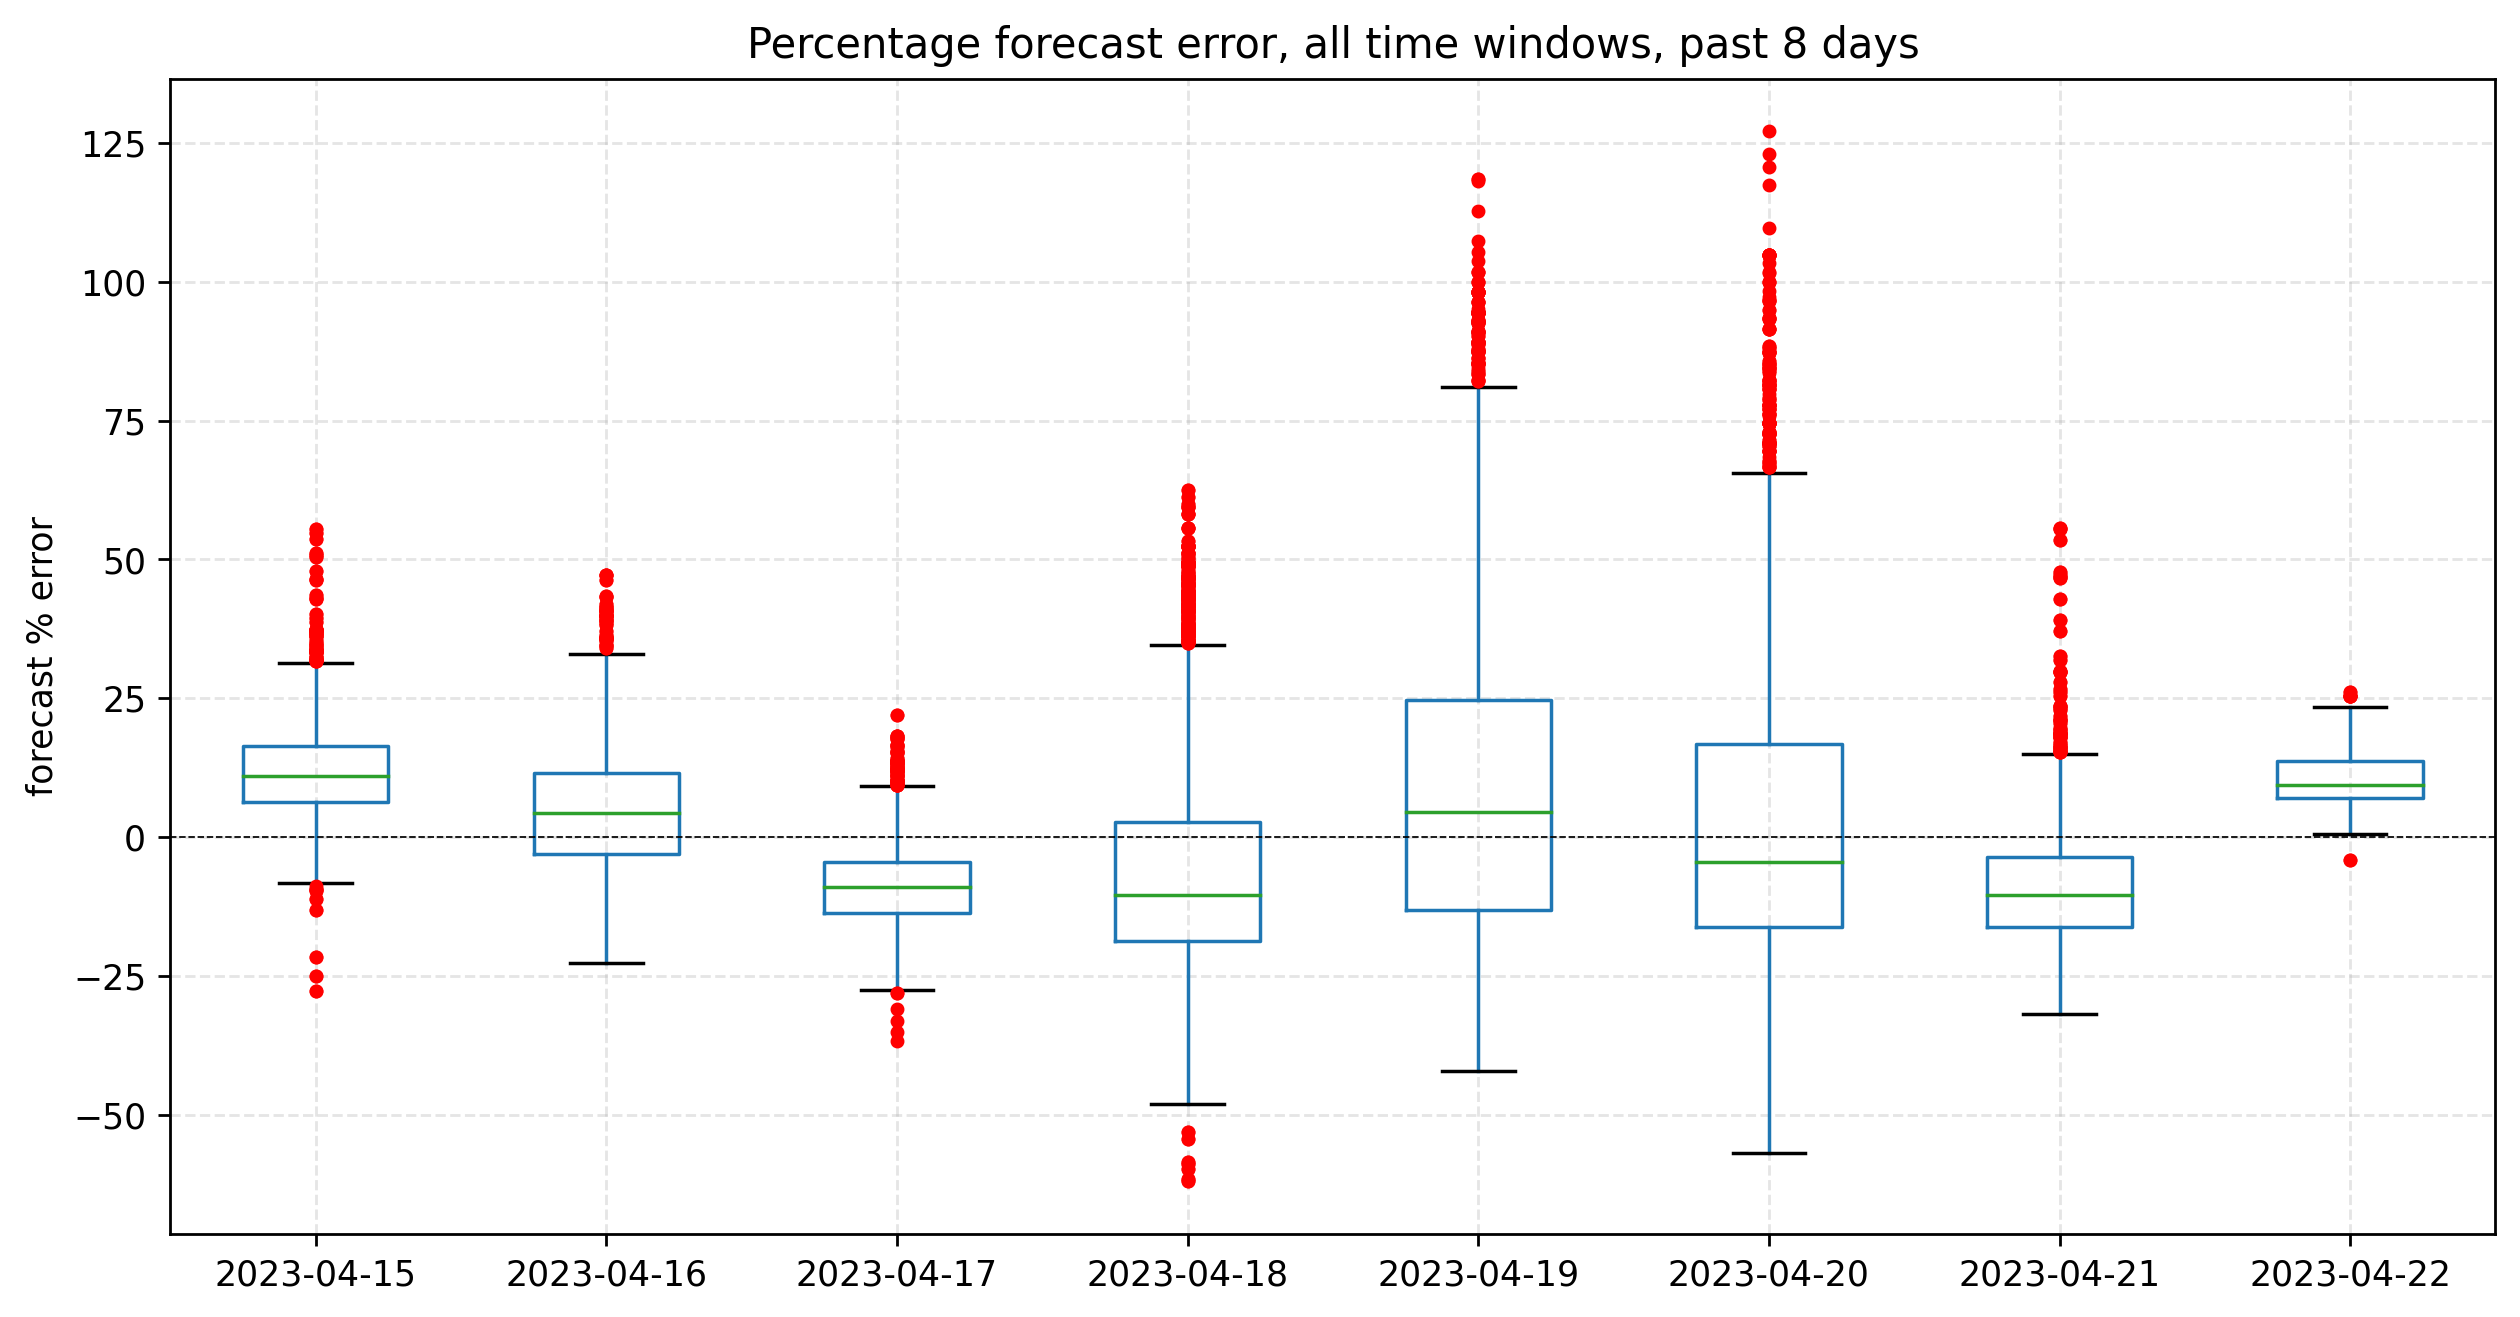
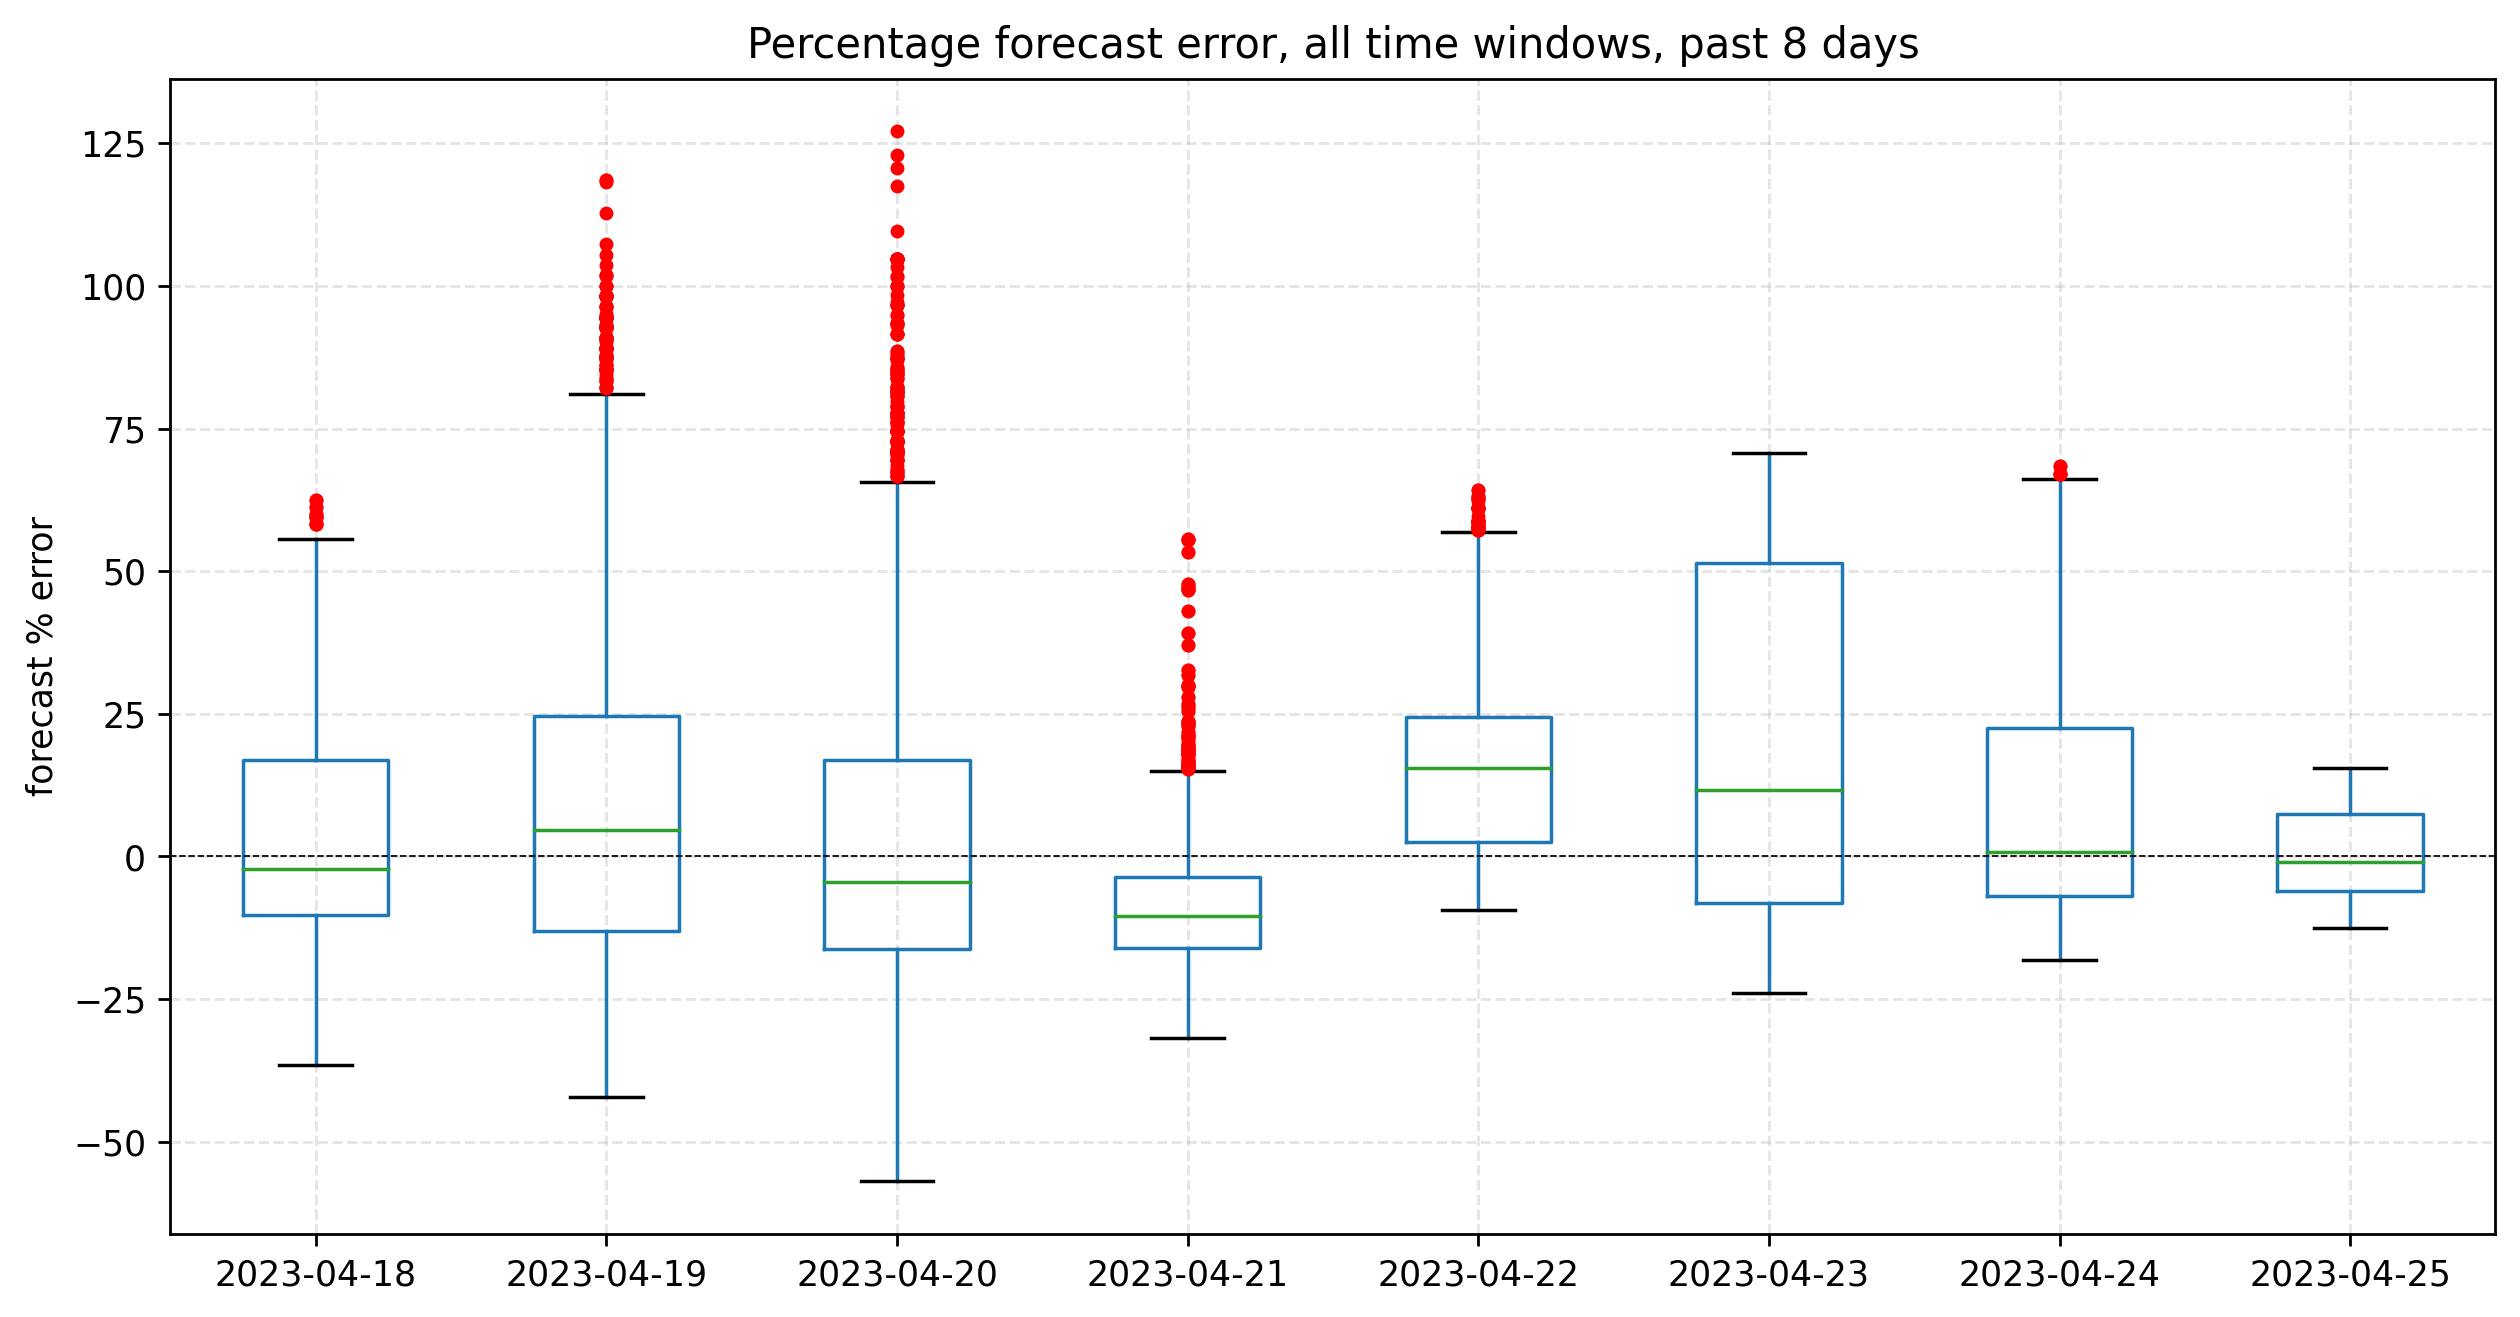
Latest charts

diff --git a/README.md b/README.md
@@ -48,27 +48,27 @@ These are daily summaries of forecast error from all 48 half-hour windows on eac
 
 |            |   count |   mean |   sem | 95% confidence interval   |
 |:-----------|--------:|-------:|------:|:--------------------------|
-| 2023-04-15 |    3872 |  20.98 |  0.19 | (20.6, 21.35)             |
-| 2023-04-16 |    4224 |  17.62 |  0.21 | (17.22, 18.02)            |
-| 2023-04-17 |    4224 |  22.25 |  0.19 | (21.87, 22.62)            |
-| 2023-04-18 |    4224 |  22.83 |  0.24 | (22.36, 23.29)            |
+| 2023-04-18 |    2024 |  16.7  |  0.26 | (16.19, 17.21)            |
 | 2023-04-19 |    4224 |  19.55 |  0.19 | (19.18, 19.92)            |
 | 2023-04-20 |    4224 |  22.68 |  0.24 | (22.22, 23.14)            |
 | 2023-04-21 |    4224 |  20.11 |  0.21 | (19.7, 20.52)             |
-| 2023-04-22 |     352 |  16.72 |  0.44 | (15.85, 17.6)             |
+| 2023-04-22 |    4224 |  23.77 |  0.27 | (23.25, 24.3)             |
+| 2023-04-23 |    3372 |  30.98 |  0.36 | (30.27, 31.69)            |
+| 2023-04-24 |    1347 |  18.13 |  0.45 | (17.25, 19.01)            |
+| 2023-04-25 |      83 |  11.51 |  0.81 | (9.9, 13.12)              |
 
 #### Absolute percentage error
 
 |            |   mean |   sem | 95% confidence interval   |
 |:-----------|-------:|------:|:--------------------------|
-| 2023-04-15 |  12.32 |  0.13 | (12.07, 12.57)            |
-| 2023-04-16 |   9.38 |  0.11 | (9.16, 9.6)               |
-| 2023-04-17 |   9.87 |  0.09 | (9.7, 10.04)              |
-| 2023-04-18 |  16.9  |  0.18 | (16.55, 17.25)            |
+| 2023-04-18 |  16.55 |  0.31 | (15.93, 17.16)            |
 | 2023-04-19 |  22.2  |  0.3  | (21.61, 22.78)            |
 | 2023-04-20 |  21.65 |  0.29 | (21.07, 22.23)            |
 | 2023-04-21 |  12.27 |  0.12 | (12.03, 12.5)             |
-| 2023-04-22 |  10.3  |  0.28 | (9.75, 10.85)             |
+| 2023-04-22 |  16.79 |  0.22 | (16.36, 17.21)            |
+| 2023-04-23 |  27.87 |  0.37 | (27.15, 28.58)            |
+| 2023-04-24 |  17.74 |  0.57 | (16.62, 18.86)            |
+| 2023-04-25 |   6.66 |  0.48 | (5.71, 7.62)              |
 
 ### 24 hours
 
